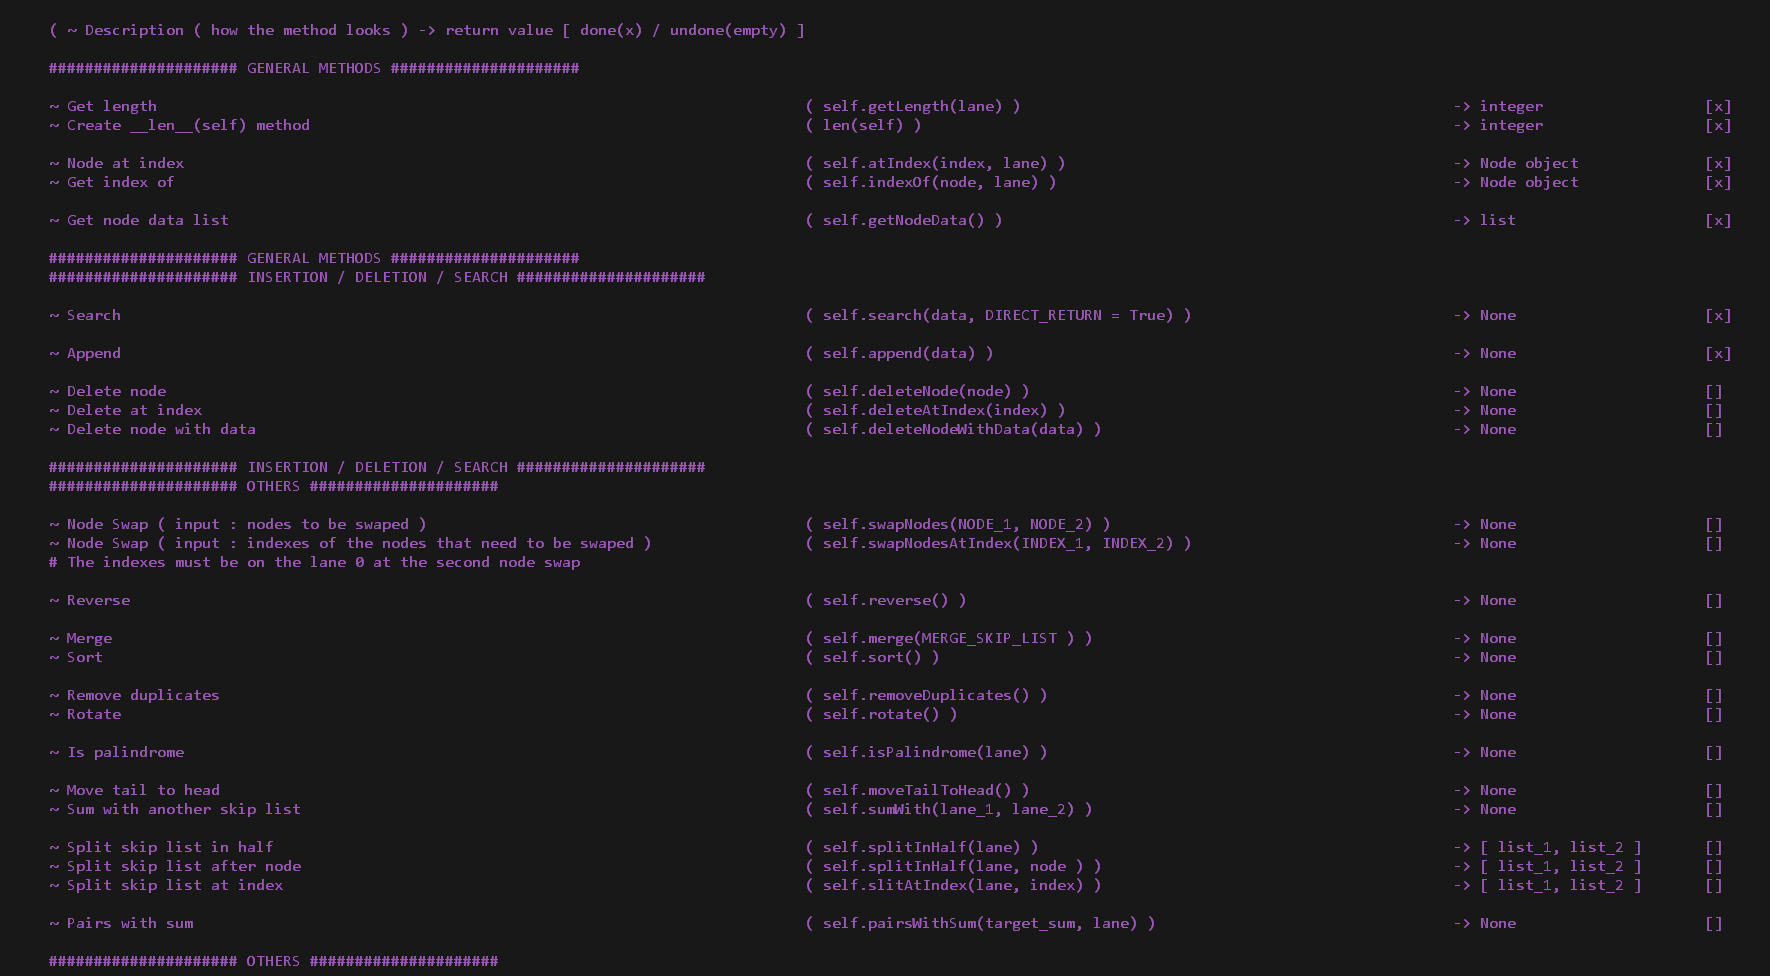
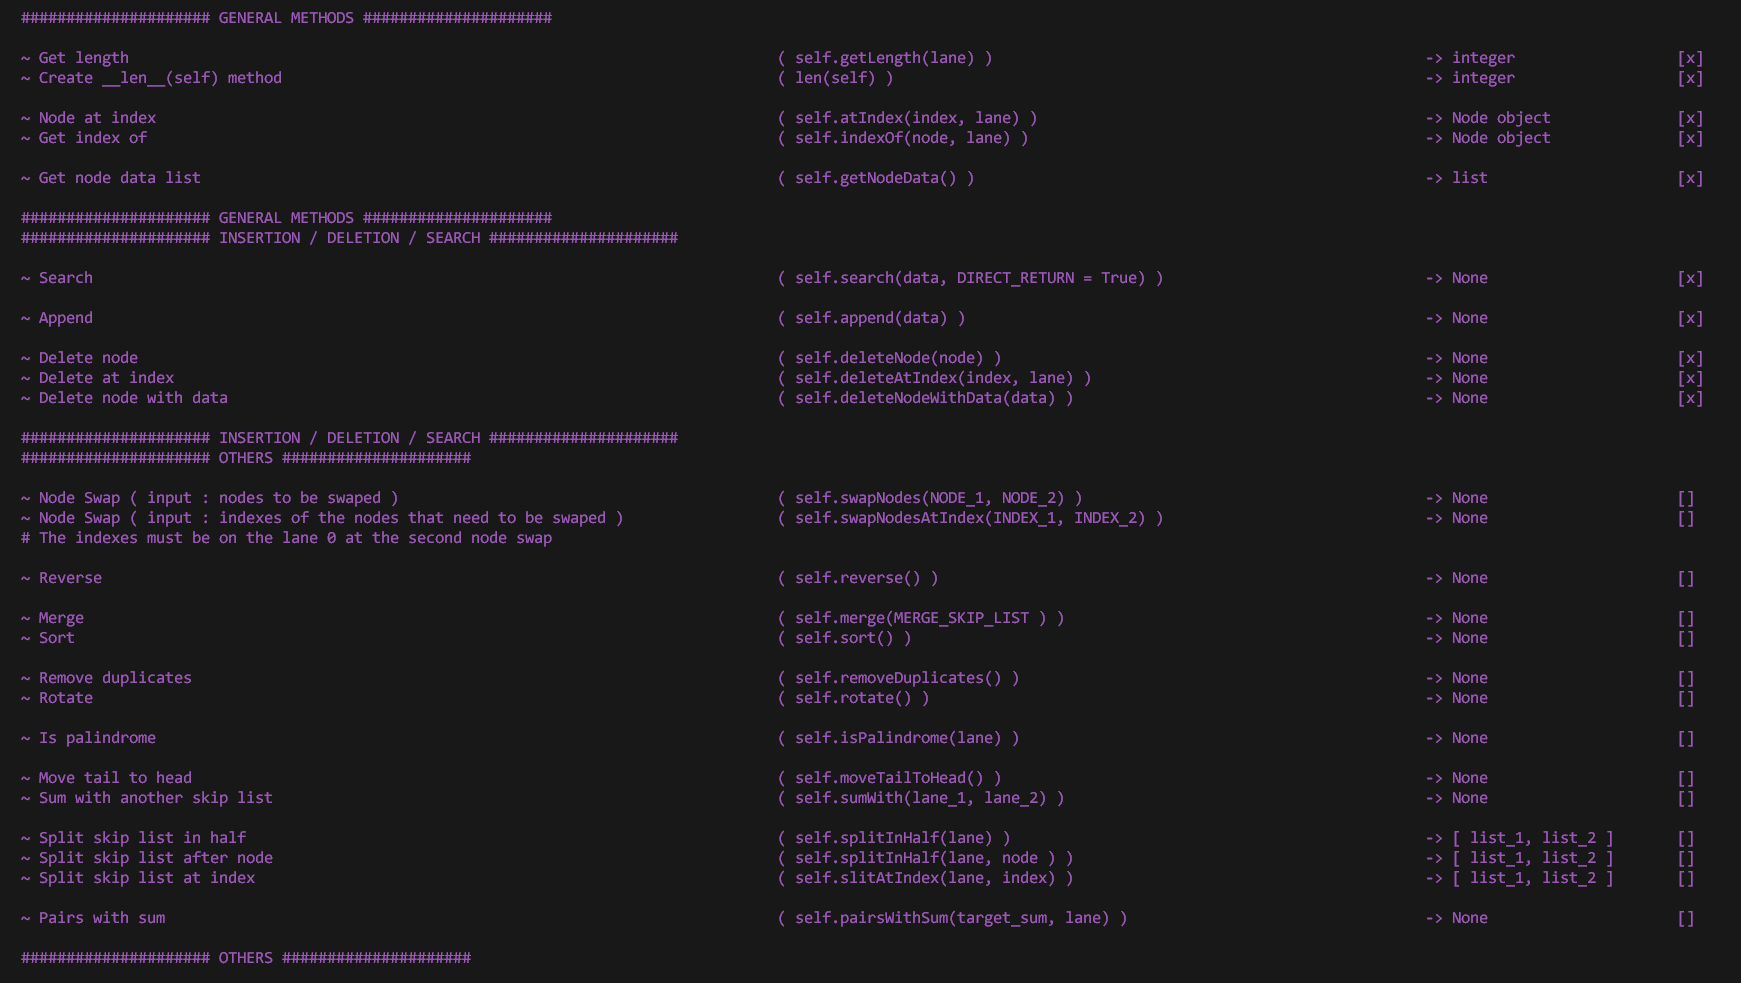
Skip List - 5 Lanes - Final Code - Finished implementation of INSERTION/DELETION/SEARCH & GENERAL METHOD + fixed not functioning delete method

diff --git a/Data structures ( code in python )/Linear Data Structures/Skip List ( Python Code )/SkipList_5Lanes_FinalCode.py b/Data structures ( code in python )/Linear Data Structures/Skip List ( Python Code )/SkipList_5Lanes_FinalCode.py
@@ -33,9 +33,9 @@ class SkipList(object):
 
         ~ Append                                                                            ( self.append(data) )                                                   -> None                     [x]
 
-        ~ Delete node                                                                       ( self.deleteNode(node) )                                               -> None                     []
-        ~ Delete at index                                                                   ( self.deleteAtIndex(index) )                                           -> None                     []
-        ~ Delete node with data                                                             ( self.deleteNodeWithData(data) )                                       -> None                     []
+        ~ Delete node                                                                       ( self.deleteNode(node) )                                               -> None                     [x]
+        ~ Delete at index                                                                   ( self.deleteAtIndex(index, lane) )                                     -> None                     [x]
+        ~ Delete node with data                                                             ( self.deleteNodeWithData(data) )                                       -> None                     [x]
 
         ##################### INSERTION / DELETION / SEARCH #####################
         ##################### OTHERS #####################
@@ -402,42 +402,77 @@ class SkipList(object):
         ''' Delete the given node '''
         # Check the given node
         if type(node) != Node:
-            raise ValueError("The given node has to be of type 'Node'. It is of type : {0}".format(type(node)))
+            raise ValueError("The given node must be of type node. The type of the node that you gave was : {0}".format(str(type(node))))
 
-        # Make sure that the given node is on lane 0
+        # Make sure that the node is on layer 0
         while node.down:
             node = node.down
         
-        # Delete the height of the node on layer 0 in self.LAYERS_DATA
-        del self.LAYERS_DATA[0][1][self.indexOf(node, 0)]
-        
-        current = node
         LAYER_LEVEL = 0
-
+        current = node
+        PREV_NODE = node.prev
+        
+        # Delete the height of the node on layer 0
+        del self.LAYERS_DATA[0][1][self.indexOf(node, 0)]
+    
         while current:
-            # If the node that we want to delete is the last node, then, after we will delete it, the node before it will become the new last node on the lane.
+            # Update self.LAYERS_DATA
+            del self.LAYERS_DATA[LAYER_LEVEL][0][self.indexOf(current, LAYER_LEVEL)] # Update the node data list
+            self.LAYERS_DATA[LAYER_LEVEL][-1] -= 1 # Decrement the length of the lane
+            
+        
+            # Find out if the node that we want to delete is the last node. If it is the last node then, after we will delete it, the last node will remain the previous node before the node that we wanted to delete, that is in our case PREV_NODE
             IS_LAST_NODE = False
-            PREV_NODE = current.prev
-
-            PREV_NODE.next = current.next
-
+            
+            # Find out if we have the last node, if we don't have the last node then update the .prev pointer of the node after the node that we want to delete to be the previous node of the node that we want to delete, so PREV_NODE
             if current.next:
                 current.next.prev = PREV_NODE
             else:
                 IS_LAST_NODE = True
             
-            # Update the last node on the lane in case that the node that we had to delete was the last node, so then the last node on the lane will be updated to be the lane before the node that we wanted to delete, so that is the PREV_NODE
+            # Update the .next pointer of the previous node 
+            PREV_NODE.next = current.next
+            
+            # Update the last node to be PREV_NODE in case of IS_LAST_NODE
             if IS_LAST_NODE:
                 exec("self.last{0} = PREV_NODE".format(LAYER_LEVEL))
-
-            # Update the self.LAYERS_DATA
-            del self.LAYERS_DATA[LAYER_LEVEL][0][self.indexOf(current, LAYER_LEVEL)] # Delete from the node data list 
-            self.LAYERS_DATA[LAYER_LEVEL][-1] -= 1                                   # Decrement the length of the nodes on the current lane
-
-            # Update the current node & the layer level
-            current = current.up
             
+            # Update the current & the previous node
+            current = current.up
+            if current:
+                PREV_NODE = current.prev
+            
+            # Increment the layer level
             LAYER_LEVEL += 1
+
+    def deleteAtIndex(self, index, lane):
+        # Check the lane
+        if not 0 <= lane < 5:
+            raise ValueError("The given lane must be something between 0 & 4. You gave : {0}".format(lane))
+        
+        # Check the index
+        if not 0 <= index < self.LAYERS_DATA[lane][-1]:
+            raise ValueError("The given index is either too big or too small for the given lane. The given index was {0} and the length of the lane was {1}".format(index, self.LAYERS_DATA[lane][-1]))
+
+        # Get the node at the given index on the given lane
+        NODE_TO_DELETE = self.atIndex(index, lane)
+
+        # Delete it 
+        self.deleteNode(NODE_TO_DELETE)
+
+    def deleteNodeWithData(self, data):
+        # Look on the first lane ( 0'th lane ) for the first node that has this data
+        current = self.head0
+        while current:
+            if current.data == data:
+                # Delete the node
+                self.deleteNode(current)
+                return
+
+            current.next
+            
+        # If we passed the while loop, that means that we didn't delete any node because we didn't find any node to match the given data. So we can raise a value error
+        raise ValueError("The given data couldn't be found in the skip list.")
 
     ##################### INSERTION / DELETION / SEARCH #####################
 
